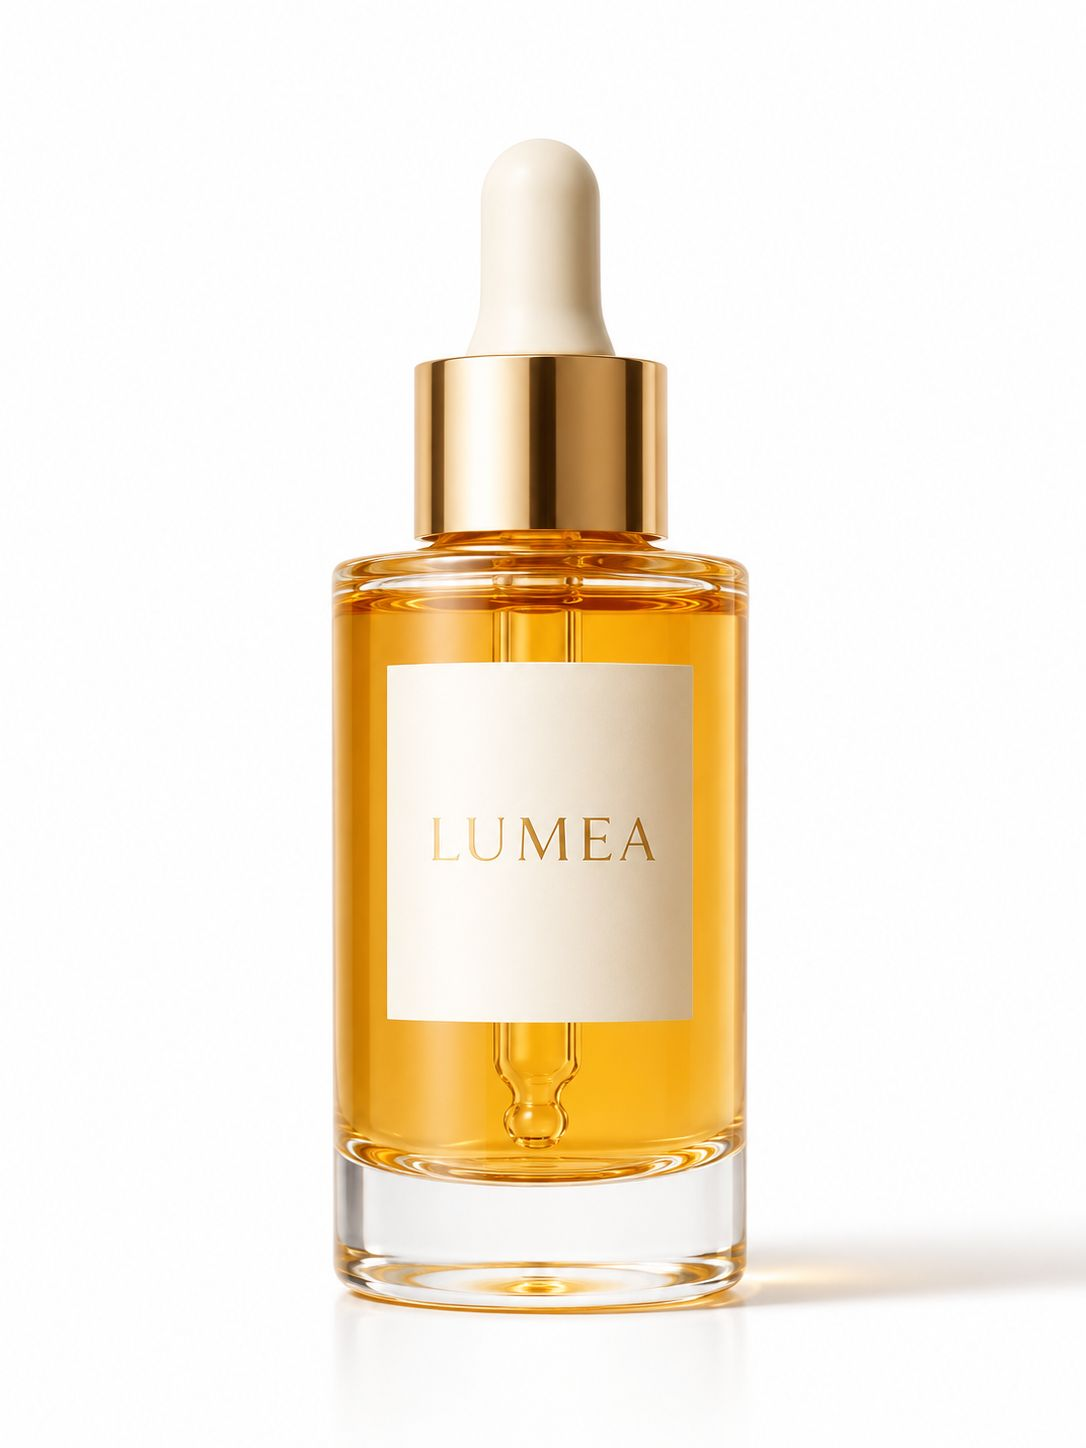
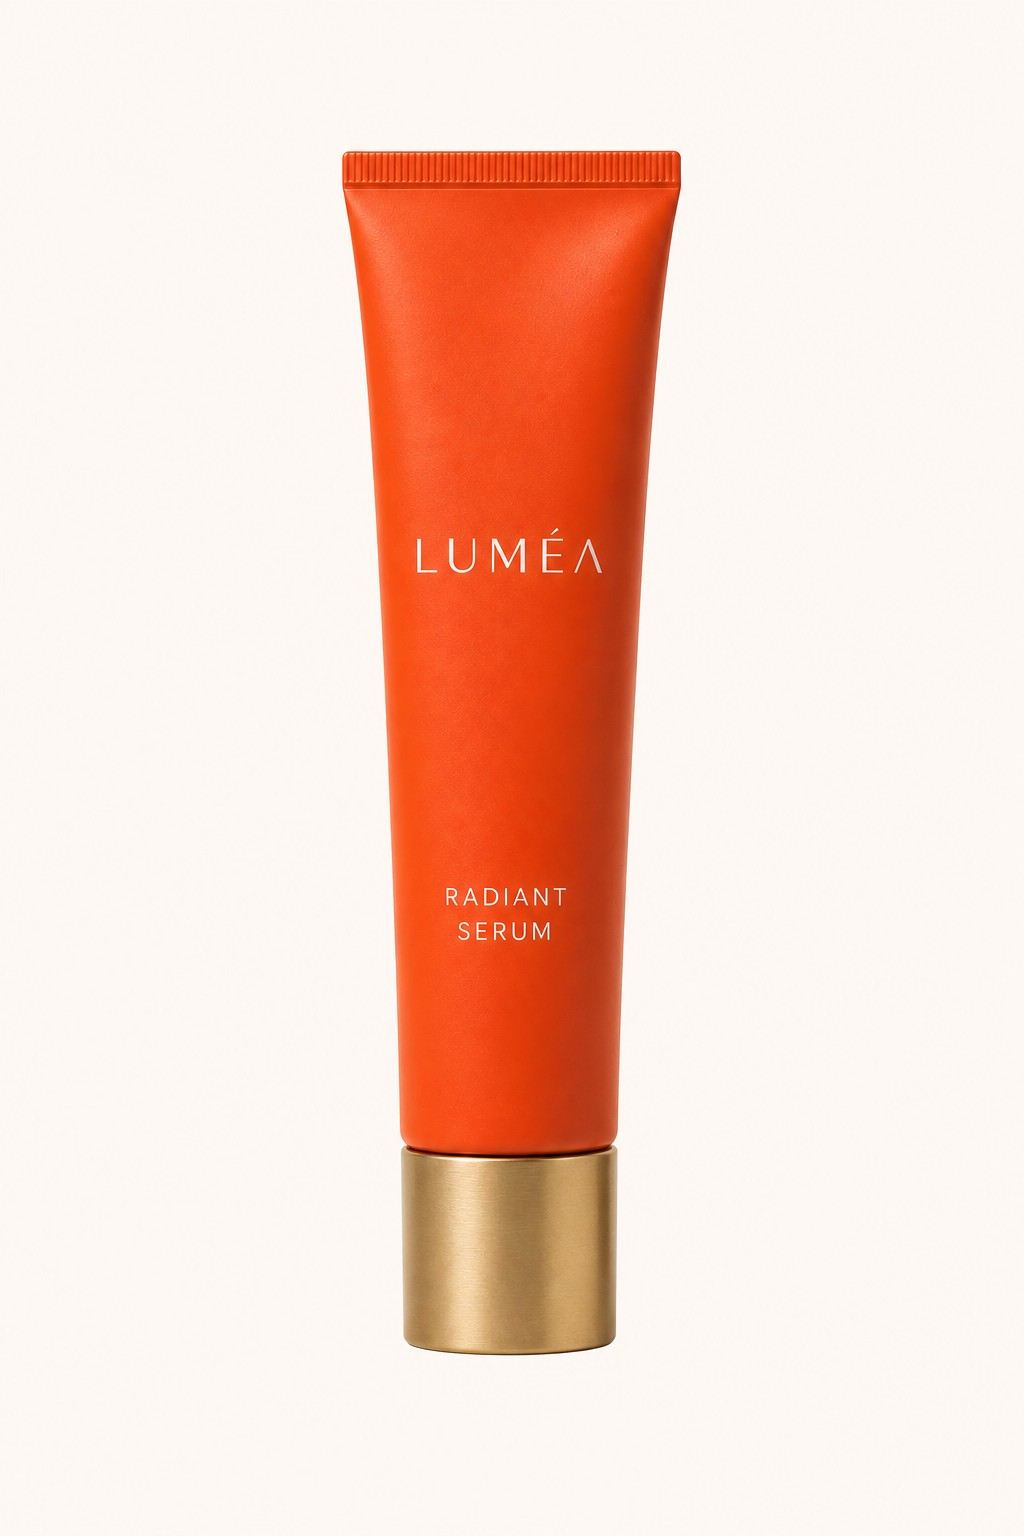
fix

Changed region(s): [[0.2812, 0.0932, 0.9375, 0.9323]]

diff --git a/assets/css/main.css b/assets/css/main.css
@@ -1460,7 +1460,7 @@ a {
   inset: 0;
   width: 100%;
   height: 100%;
-  object-fit: contain;
+  object-fit: cover;
   display: block;
   transition: opacity 0.4s ease;
   backface-visibility: hidden;